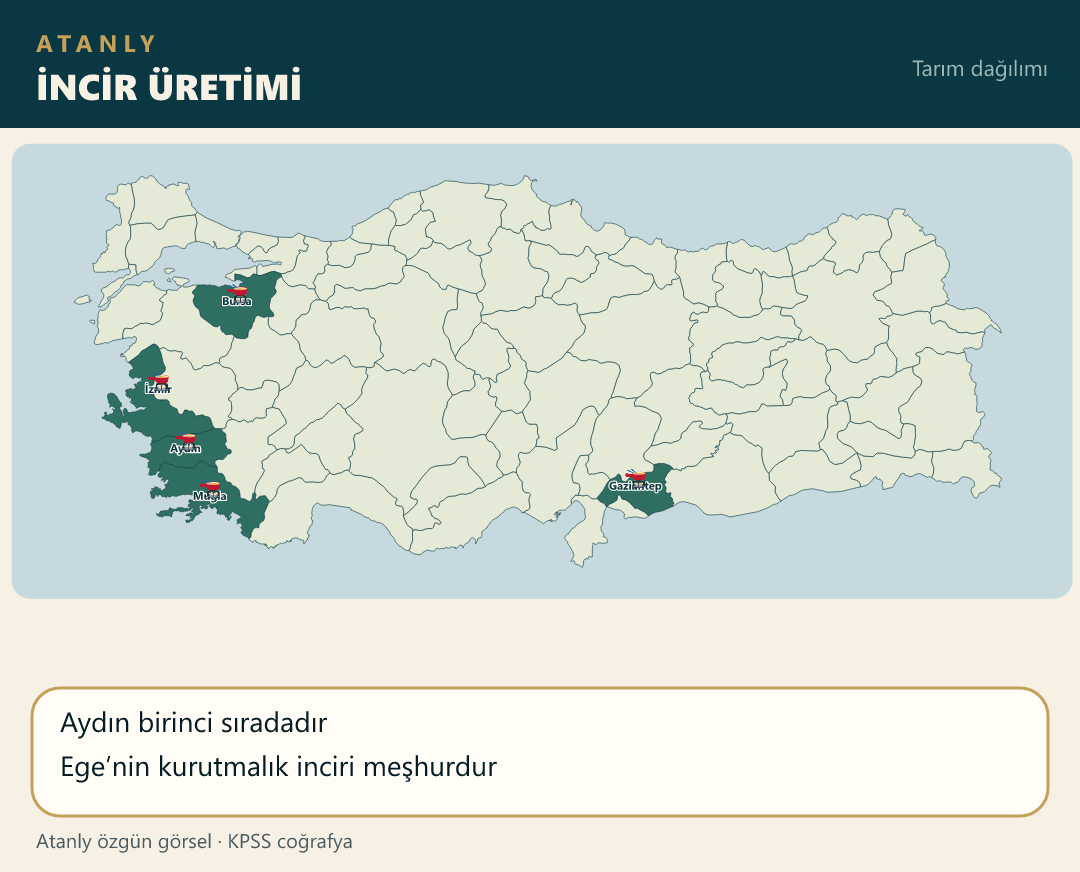
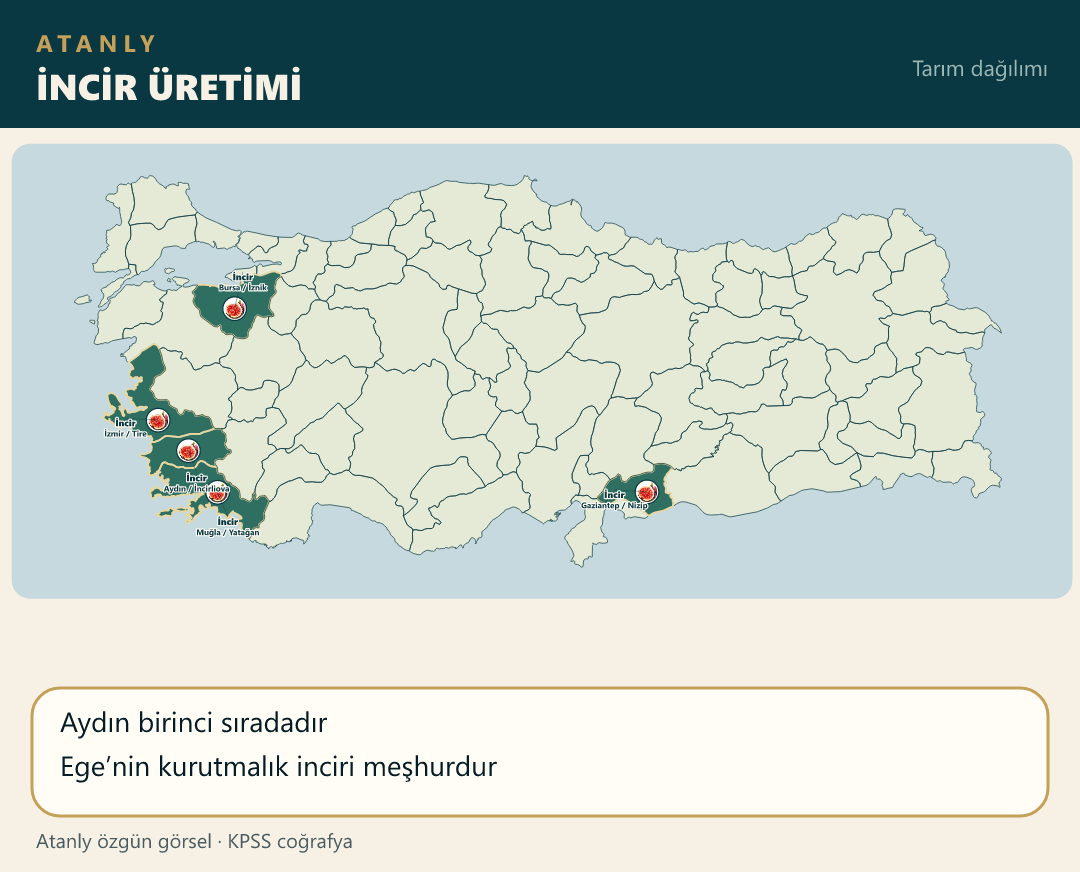
Place the fig photo on Aegean incir production pins.

diff --git a/scripts/build-atanly-maps.js b/scripts/build-atanly-maps.js
@@ -615,7 +615,15 @@ function main() {
                 { il: "Isparta", ilce: "Yalvaç", ldx: 34, ldy: 12 }
             ],
             facts: ["Devlet kontrolünde üretilir", "Afyonkarahisar adıyla özdeşleşir"] },
-        { file: "incir.png", title: "İNCİR ÜRETİMİ", iller: ["Aydın", "İzmir", "Muğla", "Bursa", "Gaziantep"], facts: ["Aydın birinci sıradadır", "Ege’nin kurutmalık inciri meşhurdur"] },
+        { file: "incir.png", title: "İNCİR ÜRETİMİ", urun: "İncir",
+            noktalar: [
+                { il: "Aydın", ilce: "İncirliova", ldx: 8, ldy: 30 },
+                { il: "İzmir", ilce: "Tire", ldx: -32, ldy: 6 },
+                { il: "Muğla", ilce: "Yatağan", ldx: 10, ldy: 32 },
+                { il: "Bursa", ilce: "İznik", ldx: 8, ldy: -28 },
+                { il: "Gaziantep", ilce: "Nizip", ldx: -32, ldy: 6 }
+            ],
+            facts: ["Aydın birinci sıradadır", "Ege’nin kurutmalık inciri meşhurdur"] },
         { file: "kayısı.png", title: "KAYISI ÜRETİMİ", iller: ["Malatya", "Elazığ", "Kahramanmaraş", "Iğdır"], facts: ["Malatya dünya ölçeğinde öne çıkar", "Kurutmalık kayısı ihracatı önemlidir"] },
         { file: "muz.png", title: "MUZ ÜRETİMİ", iller: ["Mersin", "Antalya", "Hatay"], facts: ["Don olayının az olduğu kıyı kuşağı", "Anamur–Alanya çevresi yoğundur"] },
         { file: "anason.png", title: "ANASON ÜRETİMİ", urun: "Anason",

diff --git a/notlar/cografya-19-not.js b/notlar/cografya-19-not.js
@@ -2,7 +2,7 @@
 (function () {
     function harita(src, alt) {
         return '<div class="mt-4 overflow-hidden rounded-xl border border-blue-200 dark:border-blue-700/50 bg-white dark:bg-slate-800 p-2">' +
-            '<img src="./src/img/' + src + '?v=26" alt="' + alt + ' Haritası" class="w-full h-auto rounded-lg object-contain" loading="lazy">' +
+            '<img src="./src/img/' + src + '?v=27" alt="' + alt + ' Haritası" class="w-full h-auto rounded-lg object-contain" loading="lazy">' +
             "</div>";
     }
 

diff --git a/index.html b/index.html
@@ -117,7 +117,7 @@
     <script src="notlar/cografya-16-not.js?v=3"></script>
     <script src="notlar/cografya-17-not.js?v=3"></script>
     <script src="notlar/cografya-18-not.js?v=15"></script>
-    <script src="notlar/cografya-19-not.js?v=22"></script>
+    <script src="notlar/cografya-19-not.js?v=23"></script>
     <script src="notlar/cografya-20-not.js?v=1"></script>
     <script src="notlar/cografya-21-not.js?v=4"></script>
     <script src="notlar/cografya-22-not.js?v=1"></script>
